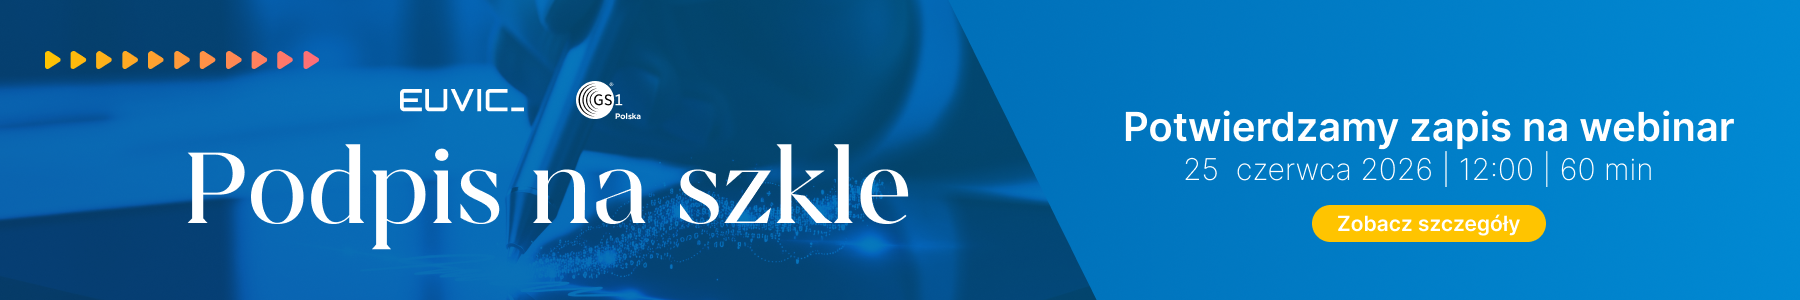
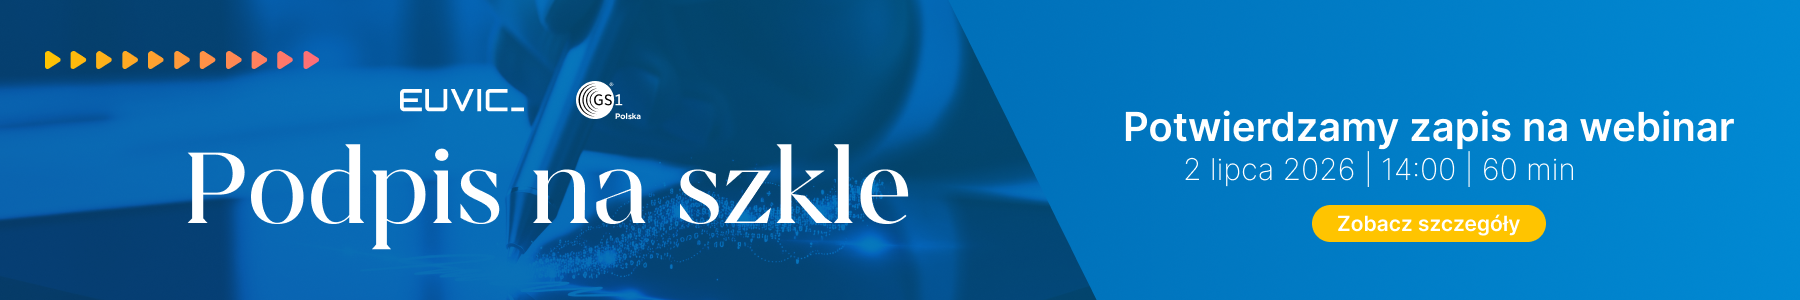
handle rwd

Changed region(s): [[0.6533, 0.51, 0.9333, 0.6]]

diff --git a/components/ThankYouModal.tsx b/components/ThankYouModal.tsx
@@ -18,25 +18,50 @@ export default function ThankYouModal({ open, onClose }: ThankYouModalProps) {
   if (!open || !mounted) return null;
 
   return createPortal(
-    <div className="modal-overlay" onClick={onClose} role="dialog" aria-modal="true" aria-label="Potwierdzenie zapisu">
+    <div
+      className="modal-overlay"
+      onClick={onClose}
+      role="dialog"
+      aria-modal="true"
+      aria-label="Potwierdzenie zapisu"
+    >
       <div className="modal-card" onClick={(e) => e.stopPropagation()}>
-        <img className="modal-bg" src="/assets/popup-bg.svg" alt="" aria-hidden="true" />
+        <img
+          className="modal-bg"
+          src="/assets/popup-bg.svg"
+          alt=""
+          aria-hidden="true"
+        />
 
-        <button type="button" className="modal-close" onClick={onClose} aria-label="Zamknij">
+        <button
+          type="button"
+          className="modal-close"
+          onClick={onClose}
+          aria-label="Zamknij"
+        >
           &times;
         </button>
 
         <div className="modal-content">
           <div className="modal-logos">
-            <img src="/assets/logo-euvic-white.svg" alt="Euvic" className="modal-logo-euvic" />
-            <img src="/assets/gs1-logo.png" alt="GS1 Polska" className="modal-logo-gs1" />
+            <img
+              src="/assets/logo-euvic-white.svg"
+              alt="Euvic"
+              className="modal-logo-euvic"
+            />
+            <img
+              src="/assets/gs1-logo.png"
+              alt="GS1 Polska"
+              className="modal-logo-gs1"
+            />
           </div>
 
           <h2 className="modal-title">Dziękujemy za zapis na webinar!</h2>
 
           <div className="modal-body">
             <p>
-              Potwierdzenie zapisu oraz najważniejsze informacje o wydarzeniu wysłaliśmy na podany adres{" "}
+              Potwierdzenie zapisu oraz najważniejsze informacje o wydarzeniu
+              wysłaliśmy na podany adres{" "}
               <span className="modal-nowrap">e{"\u2011"}mail</span>.
               <br />
               Jeśli nie widzisz wiadomości, sprawdź folder SPAM.
@@ -45,11 +70,16 @@ export default function ThankYouModal({ open, onClose }: ThankYouModalProps) {
 
           <div className="modal-footer-info">
             <p>Podpis na szkle | 2 lipca 2026 | 14:00 | 60 minut</p>
-            <img src="/assets/popup-arrows.svg" alt="" aria-hidden="true" className="modal-arrows" />
+            <img
+              src="/assets/popup-arrows.svg"
+              alt=""
+              aria-hidden="true"
+              className="modal-arrows"
+            />
           </div>
         </div>
       </div>
     </div>,
-    document.body,
+    document.body
   );
 }

diff --git a/components/Guests.tsx b/components/Guests.tsx
@@ -11,7 +11,7 @@ export default function Guests() {
           <h3>Grzegorz Sokołowski</h3>
           <p className="role">prelegent</p>
           <div className="rule"><img src="/assets/line-rule.99be3ec4.svg" alt="" /></div>
-          <p className="bio">Specjalista w zakresie standardów identyfikacyjnych i traceability. Odpowiada za standaryzację danych logistycznych (SSCC, e&#8209;CMR), budując jednoznaczność informacji w łańcuchach dostaw.</p>
+          <p className="bio">Specjalista GS1 w zakresie standardów identyfikacyjnych i traceability. Odpowiada za standaryzację danych logistycznych (SSCC, e&#8209;CMR), budując jednoznaczność informacji w łańcuchach dostaw.</p>
         </article>
         <article className="guest">
           <div className="guest-photo">
@@ -20,7 +20,7 @@ export default function Guests() {
           <h3>Janina Gacioch&#8209;Gruszecka</h3>
           <p className="role">prelegent</p>
           <div className="rule"><img src="/assets/line-rule.99be3ec4.svg" alt="" /></div>
-          <p className="bio">Specjalistka ds. cyfryzacji procesów TSL. Odpowiada za wdrożenia systemu ePOD, pomagając firmom eliminować papier i zabezpieczać dowody dostaw od rampy aż po fakturę.</p>
+          <p className="bio">Specjalistka ds. cyfryzacji procesów TSL w Euvic. Odpowiada za wdrożenia systemu ePOD, pomagając firmom eliminować papier i zabezpieczać dowody dostaw od rampy aż po fakturę.</p>
         </article>
         <article className="guest">
           <div className="guest-photo">
@@ -29,7 +29,7 @@ export default function Guests() {
           <h3>Zbigniew Rusinek</h3>
           <p className="role">Moderator spotkania</p>
           <div className="rule"><img src="/assets/line-rule.99be3ec4.svg" alt="" /></div>
-          <p className="bio">Ekspert w obszarze standaryzacji, identyfikacji i automatyzacji procesów w przemyśle i logistyce. Łączy wiedzę technologiczną z praktycznym podejściem do wdrożeń, wspierając firmy w transformacji cyfrowej i zwiększaniu przejrzystości łańcuchów dostaw.</p>
+          <p className="bio">Ekspert GS1 w obszarze standaryzacji, identyfikacji i automatyzacji procesów w przemyśle i logistyce. Łączy wiedzę technologiczną z praktycznym podejściem do wdrożeń, wspierając firmy w transformacji cyfrowej i zwiększaniu przejrzystości łańcuchów dostaw.</p>
         </article>
       </div>
     </section>

diff --git a/lib/send-registration-email.ts b/lib/send-registration-email.ts
@@ -121,7 +121,7 @@ function buildParticipantConfirmationHtml(
               <p style="${p}">Dzień dobry,</p>
               <p style="${p}">Dziękujemy za zapis na bezpłatny webinar:</p>
               <p style="${p}">${titleLinked}<br />
-              26 czerwca 2026 | 12:00 | 60 minut</p>
+              2 lipca 2026 | 14:00 | 60 minut</p>
               <p style="${p}">Podczas webinaru pokażemy, jak budować wiarygodną dokumentację dostaw i unikać sporów w logistyce.</p>
               <p style="${p}">To wszystko w praktycznej formule:<br />
               30 minut wprowadzenia + 30 minut Q&amp;A</p>
